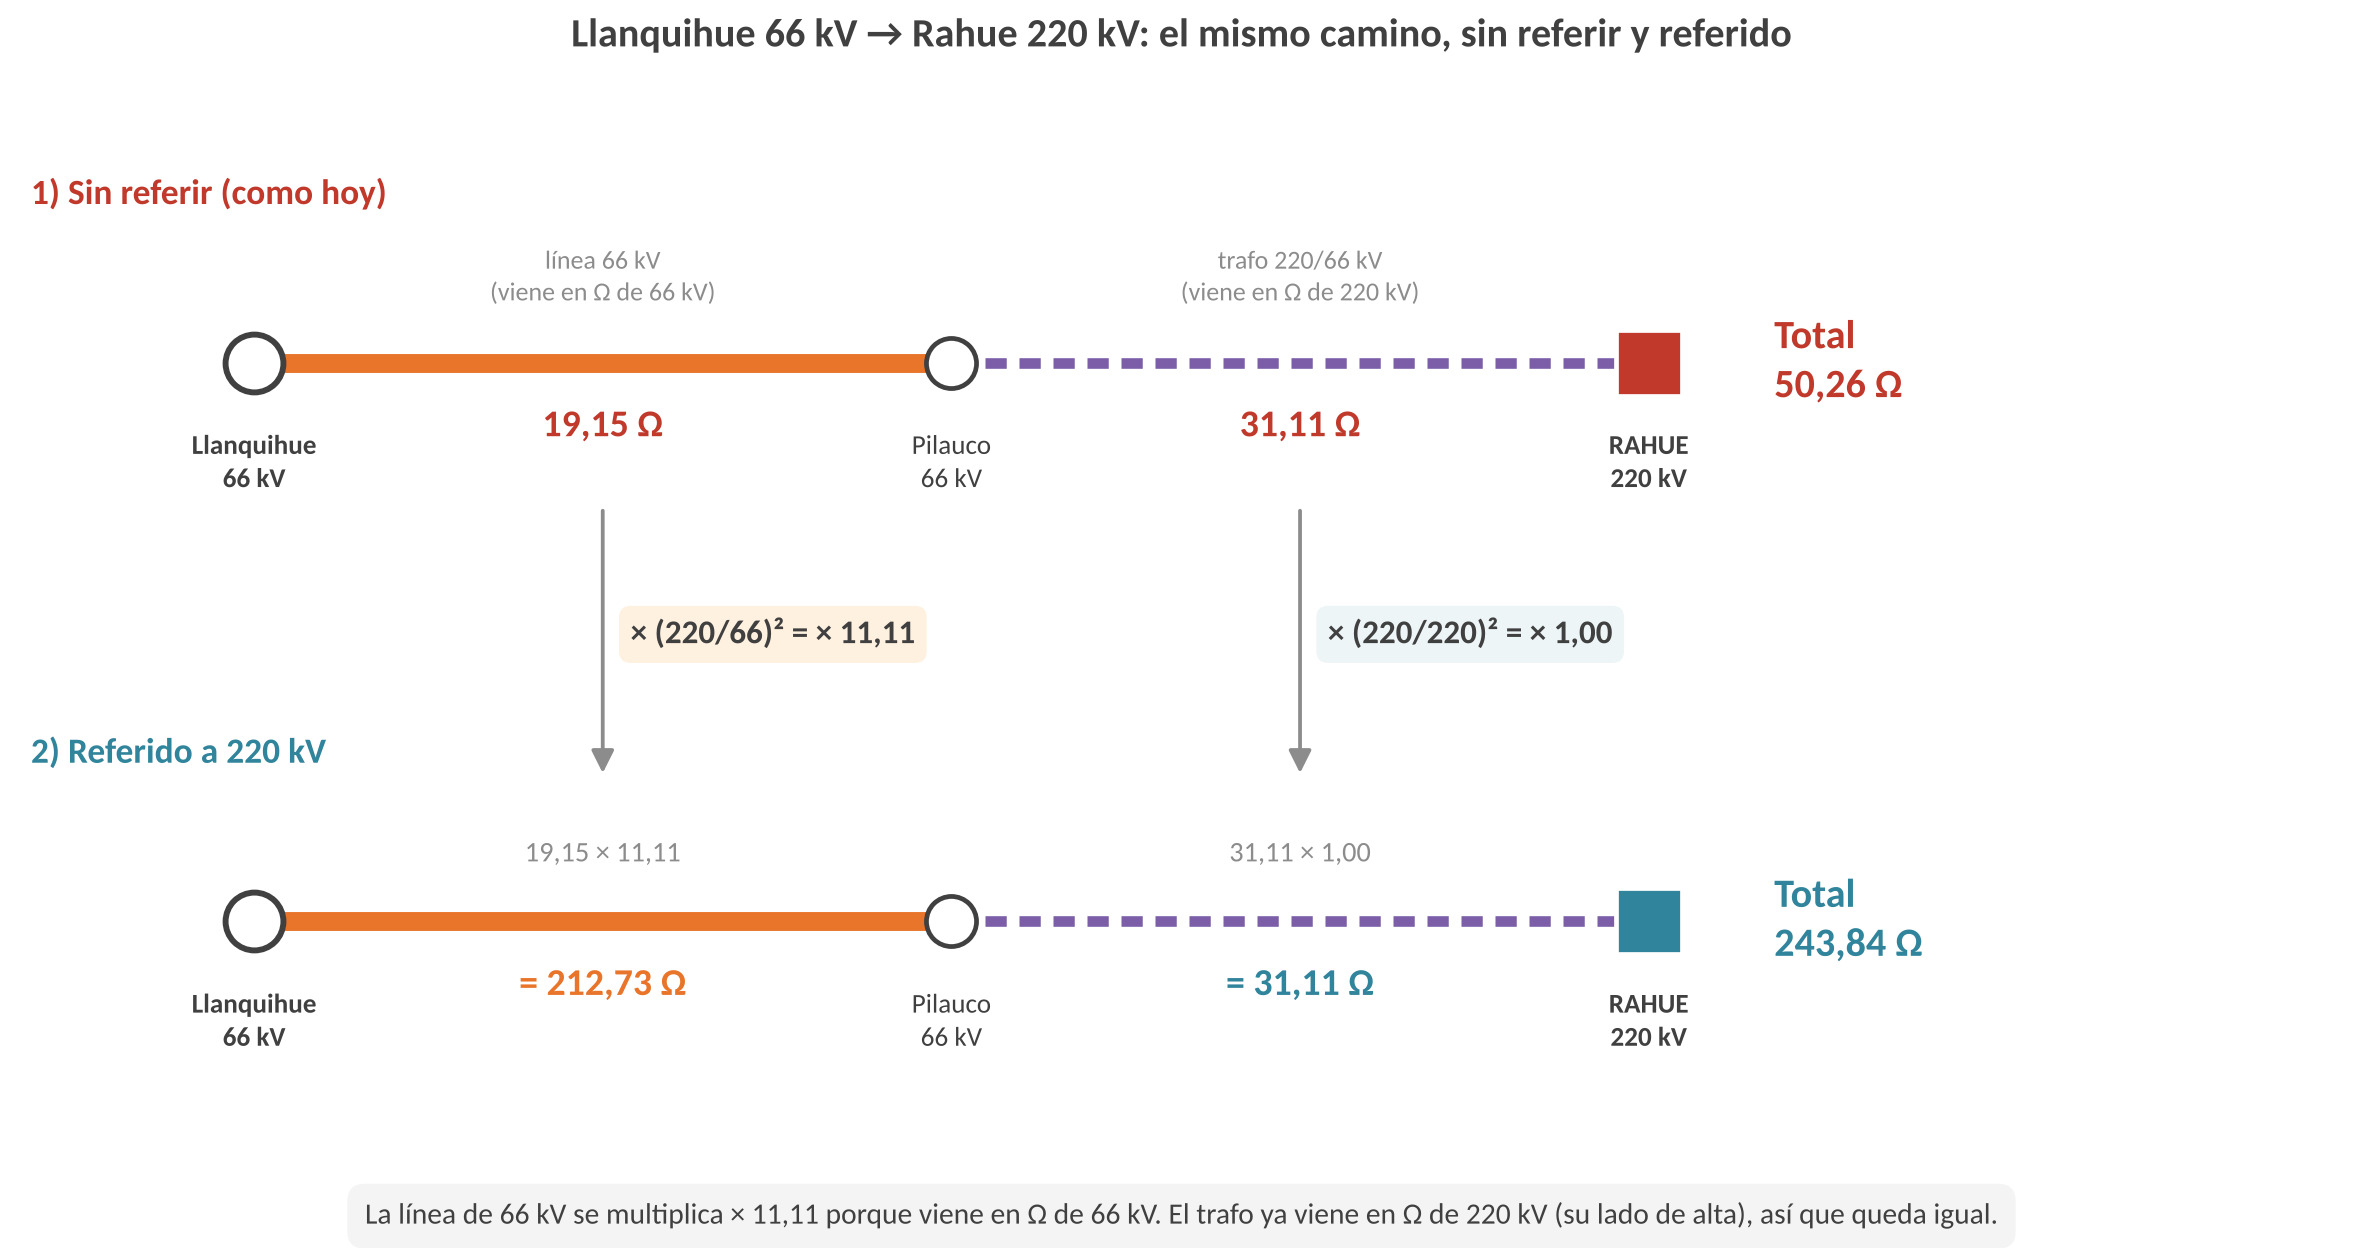
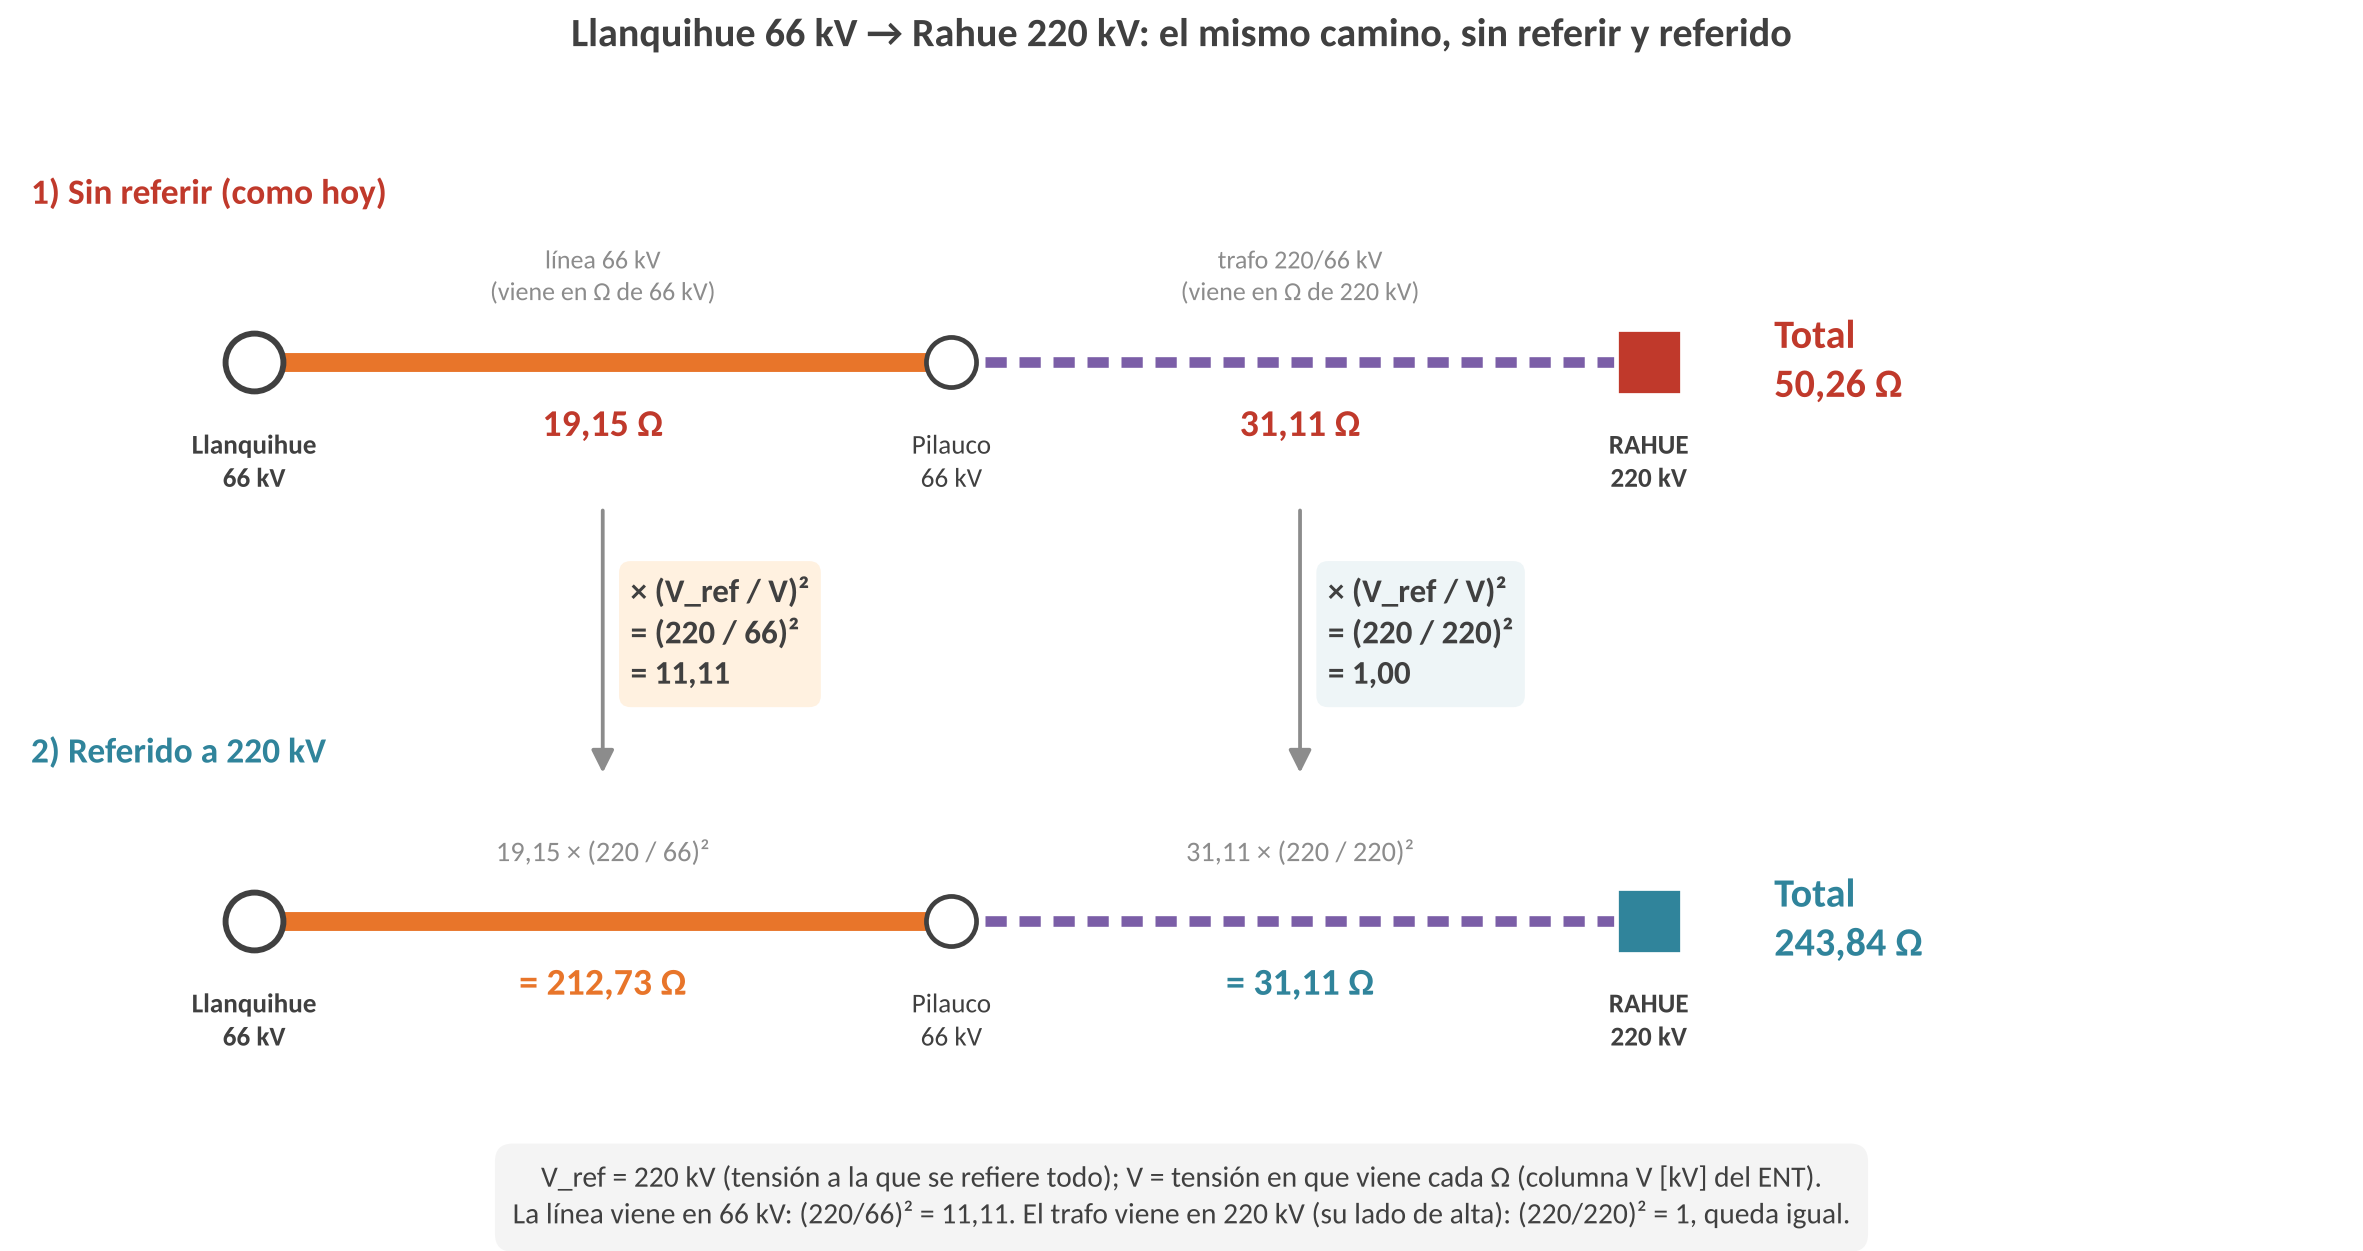
figuras: factor como (V_ref / V)² en el ejemplo Llanquihue → Rahue
Claude-Session: https://claude.ai/code/session_01PkC9T9h9bWvat77XCKHKnu

diff --git a/docs/scripts/analisis/criterios_v2/simple_rahue.py b/docs/scripts/analisis/criterios_v2/simple_rahue.py
@@ -26,13 +26,13 @@ for i,(nm,src,x,v,c,istr) in enumerate(tramos):
     ax.text(xm,yH+0.35,f"{nm}\n({src})",ha='center',va='bottom',fontsize=11,color=GREY)
     ax.text(xm,yH-0.3,f"{fmt(x)} Ω",ha='center',va='top',fontsize=16,fontweight='bold',color=HOY)
     ax.add_patch(FancyArrowPatch((xm,yH-0.95),(xm,yR+0.95),arrowstyle='-|>',mutation_scale=20,color=GREY,lw=1.6))
-    ax.text(xm+0.2,(yH+yR)/2+0.05,f"× (220/{v})² = × {fmt(f)}",ha='left',va='center',fontsize=14,fontweight='bold',color=DARK,
+    ax.text(xm+0.2,(yH+yR)/2+0.05,f"× (V_ref / V)²\n= (220 / {v})²\n= {fmt(f)}",ha='left',va='center',fontsize=14,fontweight='bold',color=DARK,
             bbox=dict(boxstyle='round,pad=0.35',fc='#FFF1E0' if f>1 else '#EEF5F7',ec='none'))
-    ax.text(xm,yR+0.35,f"{fmt(x)} × {fmt(f)}",ha='center',va='bottom',fontsize=12,color=GREY)
+    ax.text(xm,yR+0.35,f"{fmt(x)} × (220 / {v})²",ha='center',va='bottom',fontsize=12,color=GREY)
     ax.text(xm,yR-0.3,f"= {fmt(r)} Ω",ha='center',va='top',fontsize=16,fontweight='bold',color=REF if v==220 else L66)
 ax.text(11.4,yH,f"Total\n{fmt(tH)} Ω",fontsize=17,fontweight='bold',color=HOY,va='center')
 ax.text(11.4,yR,f"Total\n{fmt(tR)} Ω",fontsize=17,fontweight='bold',color=REF,va='center')
 ax.set_title('Llanquihue 66 kV → Rahue 220 kV: el mismo camino, sin referir y referido',fontsize=17,fontweight='bold',color=DARK)
-fig.text(0.5,0.02,'La línea de 66 kV se multiplica × 11,11 porque viene en Ω de 66 kV. El trafo ya viene en Ω de 220 kV (su lado de alta), así que queda igual.',
+fig.text(0.5,0.02,'V_ref = 220 kV (tensión a la que se refiere todo); V = tensión en que viene cada Ω (columna V [kV] del ENT).\nLa línea viene en 66 kV: (220/66)² = 11,11. El trafo viene en 220 kV (su lado de alta): (220/220)² = 1, queda igual.',
          ha='center',fontsize=12.5,color=DARK,bbox=dict(boxstyle='round,pad=0.6',fc='#F4F4F4',ec='none'))
 fig.tight_layout(rect=(0,0.06,1,1)); fig.savefig(S+'simple_rahue.png',bbox_inches='tight',facecolor='white')
